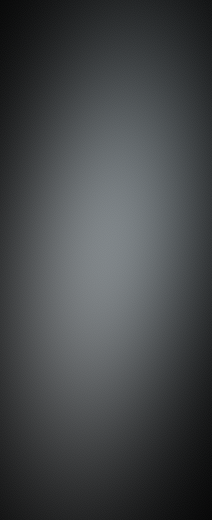
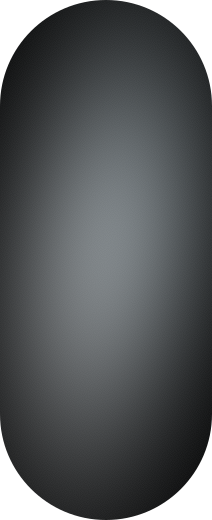
统一三个表盘项目目录、说明和胶囊形亮屏息屏预览

diff --git a/README.md b/README.md
@@ -1,49 +1,25 @@
 # 小米手环 10 表盘作品集
 
-这里收录数字、情绪光团和像素火焰三个表盘项目。安装包和预览按项目管理。
+点击项目名称查看功能、操作与安装说明。
 
-| 项目 | 功能 | 下载与说明 |
+| 项目 | 亮屏 | 息屏 |
 | --- | --- | --- |
-| 只有数字 | 六色配色、两行大数字、中央可编辑快捷入口 | [查看说明](#只有数字) · [下载安装包](downloads/stack-bold-six-colors.bin) |
-| 只有情绪 | 实测压力自动换色、倾斜漂移、双击临时预览颜色 | [查看项目](emotion/README.md) |
-| 像素火焰 | 像素火苗、火星交互、换色换形、体感开关 | [查看项目](pixel-flame/README.md) |
+| [只有数字](digits/README.md)<br>六色配色与中央快捷入口 | <img src="digits/previews/active.png" width="106" alt="数字表盘亮屏"> | <img src="digits/previews/aod.png" width="106" alt="数字表盘息屏"> |
+| [只有情绪](emotion/README.md)<br>真实压力换色与体感漂移 | <img src="emotion/previews/active.png" width="106" alt="情绪表盘亮屏"> | <img src="emotion/previews/aod.png" width="106" alt="情绪表盘息屏"> |
+| [像素火焰](pixel-flame/README.md)<br>火星交互、换色换形与体感开关 | <img src="pixel-flame/previews/active.png" width="106" alt="火焰表盘亮屏"> | <img src="pixel-flame/previews/aod.png" width="106" alt="火焰表盘息屏"> |
 
-适配目标为小米手环10 NFC，型号 M2456B1，澎湃OS 3.1.28。各项目说明记录了真机确认情况和已知限制。
+每款项目使用同一目录结构。
 
-## 只有数字
+```text
+项目目录/
+├── README.md
+├── downloads/          安装包
+├── previews/
+│   ├── active.png      亮屏预览
+│   └── aod.png         息屏预览
+└── checksums.sha256    安装包校验码
+```
 
-叠刻 · 六色极简数字表盘
+适配目标为小米手环10 NFC，型号 M2456B1，澎湃OS 3.1.28。各项目分别记录已验证功能和待确认项。
 
-适配小米手环 10 的极简数字表盘作品。
-
-<p>
-<img src="previews/active.png" width="159" alt="陶土色亮屏预览">
-<img src="previews/aod.png" width="159" alt="轮廓时间息屏预览">
-</p>
-
-## 功能
-
-- 上下两行大号 24 小时时间，搭配星期、日号、步数和秒数。
-- 陶土色、亚麻白、深棕、杏橙、浅粉和玫瑰粉六套配色。
-- 长按表盘进入设置，可切换样式，并选择中央隐形快捷入口。
-- 快捷入口包含闹钟、录音机、秒表、倒计时等功能。
-- 息屏显示暗灰轮廓小时和分钟。
-
-## 真机记录
-
-测试设备为小米手环 10 NFC，型号 M2456B1，澎湃 OS 3.1.28。
-作者已确认该版本的配色切换与功能数据入口可用。其他型号和固件尚待验证。
-
-## 下载与安装
-
-[下载表盘安装包](downloads/stack-bold-six-colors.bin)
-
-通过支持此设备的第三方表盘安装工具选择文件安装。保留原始文件格式。
-
-## 项目状态
-
-此仓库用于展示和分发当前确认版本。后续发布记录会在此更新。
-
-## 制作说明
-
-表盘通过社区开源打包工具制作。可编辑功能和系统跳转结构参考了作者提供的 CMFNOTHING 示例包。
+预览统一为212 × 520像素，四角透明，按手环胶囊轮廓裁剪。时间和附属数据为示例，实机内容随设备数据更新。

diff --git a/emotion/README.md b/emotion/README.md
@@ -1,26 +1,42 @@
-# 情绪光团
+# 体感情绪光团表盘
 
-适配小米手环 10 的体感情绪表盘，以最近一次有效压力值决定光团颜色。
+| 亮屏 | 息屏 |
+| --- | --- |
+| <img src="previews/active.png" width="159" alt="亮屏预览"> | <img src="previews/aod.png" width="159" alt="息屏预览"> |
 
-<img src="previews/active.png" width="159" alt="无有效压力数据时的柔白光团">
+## 功能
 
-## 使用
-
+- 读取手环提供的实际压力值，自动切换光团颜色。
+- 1–20柔绿，21–40青蓝，41–60琥珀，61–100珊瑚红，无有效读数时柔白。
 - 倾斜手环，光团缓慢漂移。
-- 双击中央临时预览下一种颜色，约6秒后恢复当前压力颜色。
-- 压力1–20为绿、21–40为青蓝、41–60为琥珀、61–100为珊瑚红。无有效值时显示柔白。
-- 原有息屏页面显示轮廓时间与附属数据。
+- 息屏保留轮廓时间、星期、阳历、步数和农历位置。
 
-[下载安装包](downloads/mood-gravity-refined.bin)
+## 操作
 
-## 验证记录
+- 佩戴后由系统提供压力读数，更新频率由固件决定。
+- 双击中央临时预览下一种颜色，约6秒后回到当前压力对应颜色。
+- 倾斜手环观察光团移动。
 
-目标设备为小米手环10 NFC，M2456B1，澎湃OS 3.1.28。
-用户已确认实际压力值能驱动颜色变化，并确认此版体感基本过关。
-压力来自固件提供的读数，更新频率由系统决定。
+## 下载与安装
 
-## 当前表现
+[下载表盘安装包](downloads/mood-gravity-refined.bin)
 
-高亮度下可能仍可见轻微色阶，倾斜位移的流畅度也有优化空间。
-中央系统压力跳转尚未实现。此版采用纯光团亮屏。
-其他型号和固件尚待验证。
+下载 .bin 后，通过你使用的第三方蓝牙表盘工具安装。
+
+## 真机记录
+
+测试设备为小米手环10 NFC，型号 M2456B1，澎湃OS 3.1.28。
+
+用户已确认真实压力值能够驱动颜色变化，并确认此体感版基本过关。
+
+## 已知情况
+
+高亮度下可能有轻微色阶，体感流畅度仍有优化空间。中央直达系统压力尚未实现。息屏农历绑定的独立验收尚未记录。
+
+## 文件说明
+
+- downloads 保存安装包。
+- previews 保存212 × 520透明胶囊轮廓预览。
+- checksums.sha256 用于核对安装文件完整性。
+
+预览依据本项目包内素材生成。时间及附属数据为排版示例，真机内容随设备数据更新。

diff --git a/pixel-flame/README.md b/pixel-flame/README.md
@@ -1,29 +1,42 @@
-# 赛博火苗
+# 赛博火苗表盘
 
-适配小米手环10的像素火焰表盘，采用用户选定的像素息屏与体感开关版本。
+| 亮屏 | 息屏 |
+| --- | --- |
+| <img src="previews/active.png" width="159" alt="亮屏预览"> | <img src="previews/aod.png" width="159" alt="息屏预览"> |
 
-<p>
-<img src="previews/active.png" width="159" alt="火苗亮屏预览">
-<img src="previews/aod.png" width="159" alt="像素数字息屏预览">
-</p>
+## 功能
+
+- 像素火焰配合顶部时间，燃烧时照亮数字。
+- 单击火星、换色与三种火苗形态。
+- 竖起渐燃，横放或快晃渐熄，停稳后复燃，熄灭保留余烬。
+- 息屏显示低亮像素数字。
 
 ## 操作
 
-在屏幕中央操作。
+- 单击中央弹出火星，双击切换颜色。
+- 连续三击中央切换火苗形态。
+- 连续四击中央切换体感，关闭后保持朝上燃烧。
 
-- 单击弹出火星。
-- 双击切换颜色。
-- 连续三击切换火苗形态。
-- 连续四击切换体感开关，关闭体感后保持朝上燃烧。
+## 下载与安装
 
-体感开启时，竖起渐燃，横放或快晃渐熄，停稳后逐渐复燃。
-熄灭时保留余烬。息屏显示低亮像素数字。
+[下载表盘安装包](downloads/cyber-ember-pixel-aod-toggle.bin)
 
-[下载安装包](downloads/cyber-ember-pixel-aod-toggle.bin)
+下载 .bin 后，通过你使用的第三方蓝牙表盘工具安装。
 
-## 版本记录
+## 真机记录
 
-目标设备为小米手环10 NFC，M2456B1，澎湃OS 3.1.28。
-本仓库保留用户截图指定退回的1.30 MB版本，三击换形的早期基础版本已获真机确认。
-该选定包中四击体感开关的独立验收结果尚未记录。
-其他型号和固件尚待验证。
+测试设备为小米手环10 NFC，型号 M2456B1，澎湃OS 3.1.28。
+
+采用用户截图指定的1.30 MB像素息屏与体感开关版本。三击换形的早期基础版本已获真机确认。
+
+## 已知情况
+
+四击体感开关在此选定包中的独立验收结果尚未记录。其他型号和固件尚待验证。
+
+## 文件说明
+
+- downloads 保存安装包。
+- previews 保存212 × 520透明胶囊轮廓预览。
+- checksums.sha256 用于核对安装文件完整性。
+
+预览依据本项目包内素材生成。时间及附属数据为排版示例，真机内容随设备数据更新。

diff --git a/digits/README.md b/digits/README.md
@@ -1,0 +1,46 @@
+# 六色极简数字表盘
+
+| 亮屏 | 息屏 |
+| --- | --- |
+| <img src="previews/active.png" width="159" alt="亮屏预览"> | <img src="previews/aod.png" width="159" alt="息屏预览"> |
+
+## 功能
+
+- 两行大号24小时时间，显示星期、日号、步数与秒数。
+- 陶土色、亚麻白、深棕、杏橙、浅粉、玫瑰粉六套配色。
+- 中央隐形快捷入口可在数据设置中选择。
+- 息屏显示暗灰轮廓小时和分钟。
+
+## 操作
+
+- 长按表盘，点底部设置，在样式中切换颜色。
+- 在数据页选择闹钟、录音机、秒表或倒计时等中央快捷入口。
+- 轻点中央进入所选功能。
+
+## 下载与安装
+
+[下载表盘安装包](downloads/stack-bold-six-colors.bin)
+
+下载 .bin 后，通过你使用的第三方蓝牙表盘工具安装。
+
+## 真机记录
+
+测试设备为小米手环10 NFC，型号 M2456B1，澎湃OS 3.1.28。
+
+用户已确认六色切换及功能数据入口可用。
+
+## 已知情况
+
+其他型号和固件尚待验证。
+
+## 文件说明
+
+- downloads 保存安装包。
+- previews 保存212 × 520透明胶囊轮廓预览。
+- checksums.sha256 用于核对安装文件完整性。
+
+预览依据本项目包内素材生成。时间及附属数据为排版示例，真机内容随设备数据更新。
+
+## 制作说明
+
+使用社区开源打包工具制作，可编辑功能与跳转结构参考作者提供的 CMFNOTHING 示例包。
